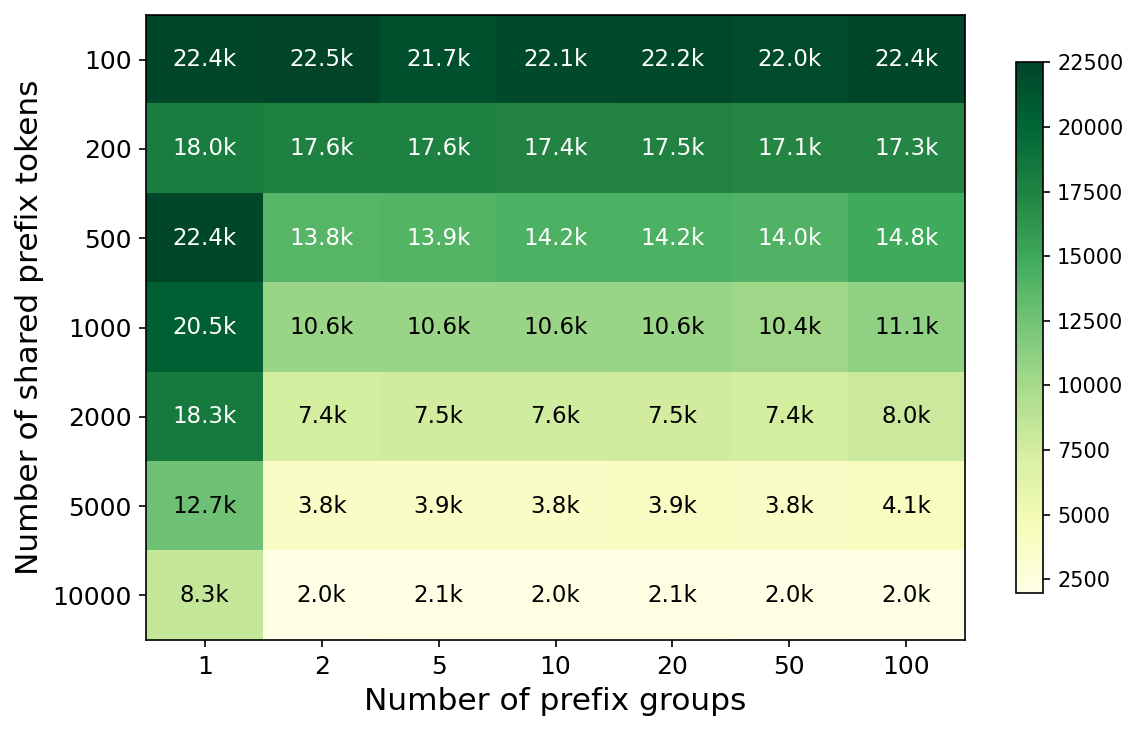
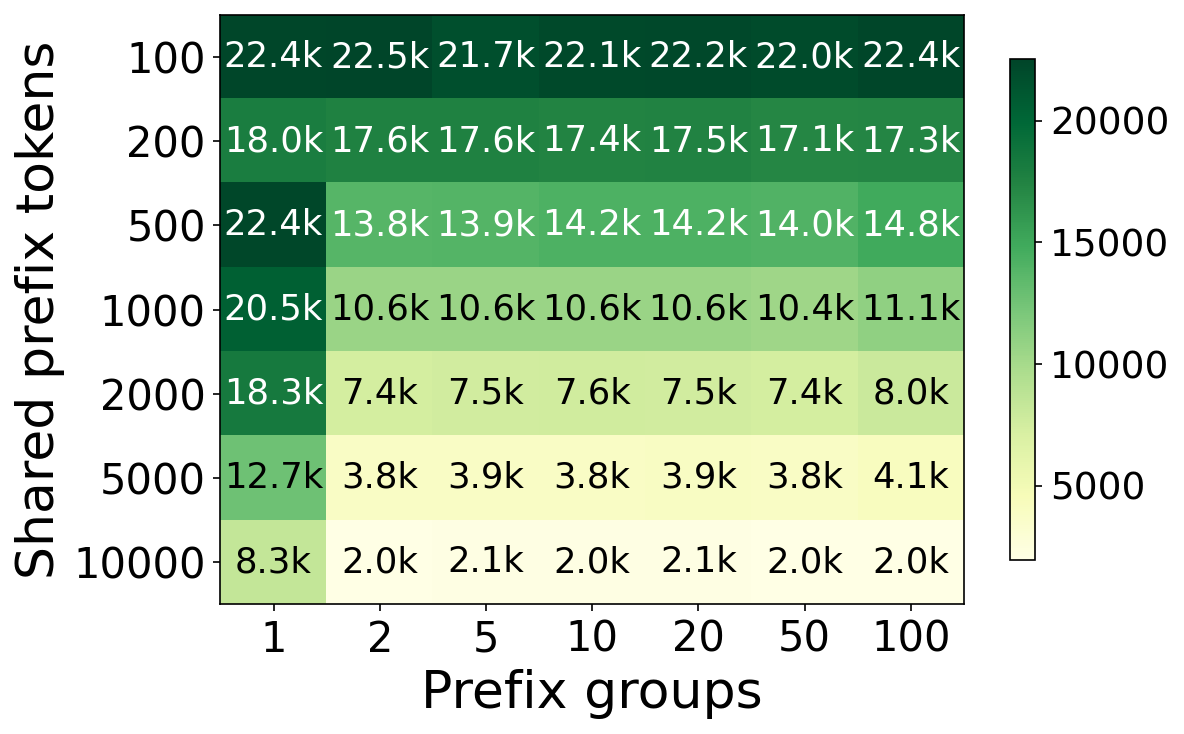
tiered

diff --git a/code/vllm/qwen_working_set_theory_logs/plot.py b/code/vllm/qwen_working_set_theory_logs/plot.py
@@ -83,11 +83,11 @@ def draw_heatmap(mat, title, fmt, cmap, outfile):
     im = ax.imshow(mat, aspect="auto", cmap=cmap,
                    vmin=np.nanmin(mat), vmax=np.nanmax(mat))
     ax.set_xticks(range(len(fams)))
-    ax.set_xticklabels(fams, fontsize=12)
+    ax.set_xticklabels(fams, fontsize=20)
     ax.set_yticks(range(len(toks)))
-    ax.set_yticklabels(toks, fontsize=12)
-    ax.set_xlabel("Number of prefix groups", fontsize=15)
-    ax.set_ylabel("Number of shared prefix tokens", fontsize=15)
+    ax.set_yticklabels(toks, fontsize=20)
+    ax.set_xlabel("Prefix groups", fontsize=25)
+    ax.set_ylabel("Shared prefix tokens", fontsize=25)
 
     for i in range(mat.shape[0]):
         for j in range(mat.shape[1]):
@@ -96,9 +96,9 @@ def draw_heatmap(mat, title, fmt, cmap, outfile):
                 norm_v = (v - np.nanmin(mat)) / (np.nanmax(mat) - np.nanmin(mat) + 1e-9)
                 txt_color = "white" if norm_v > 0.55 else "black"
                 ax.text(j, i, fmt(v), ha="center", va="center",
-                        fontsize=11, color=txt_color, fontweight="500")
+                        fontsize=17, color=txt_color, fontweight="500")
 
-    plt.colorbar(im, ax=ax, shrink=0.85)
+    plt.colorbar(im, ax=ax, shrink=0.85).ax.tick_params(labelsize=18)
     plt.tight_layout()
     plt.savefig(outfile, dpi=150, bbox_inches="tight")
     print(f"Saved to {outfile}")
@@ -110,8 +110,9 @@ draw_heatmap(tp_mat,
              cmap="YlGn",
              outfile=os.path.join(OUT_DIR, "vllm_heatmap_throughput.png"))
 
+# kv cache memory, greater than 1000 switch to G
 draw_heatmap(kv_mat,
              "KV cache memory (MB)",
-             lambda v: f"{(v*1024):.1f}M",
+             lambda v: f"{(v*1024):.0f}M" if v < 1 else f"{v:.1f}G",
              cmap="OrRd",
              outfile=os.path.join(OUT_DIR, "vllm_heatmap_kvcache.png"))
